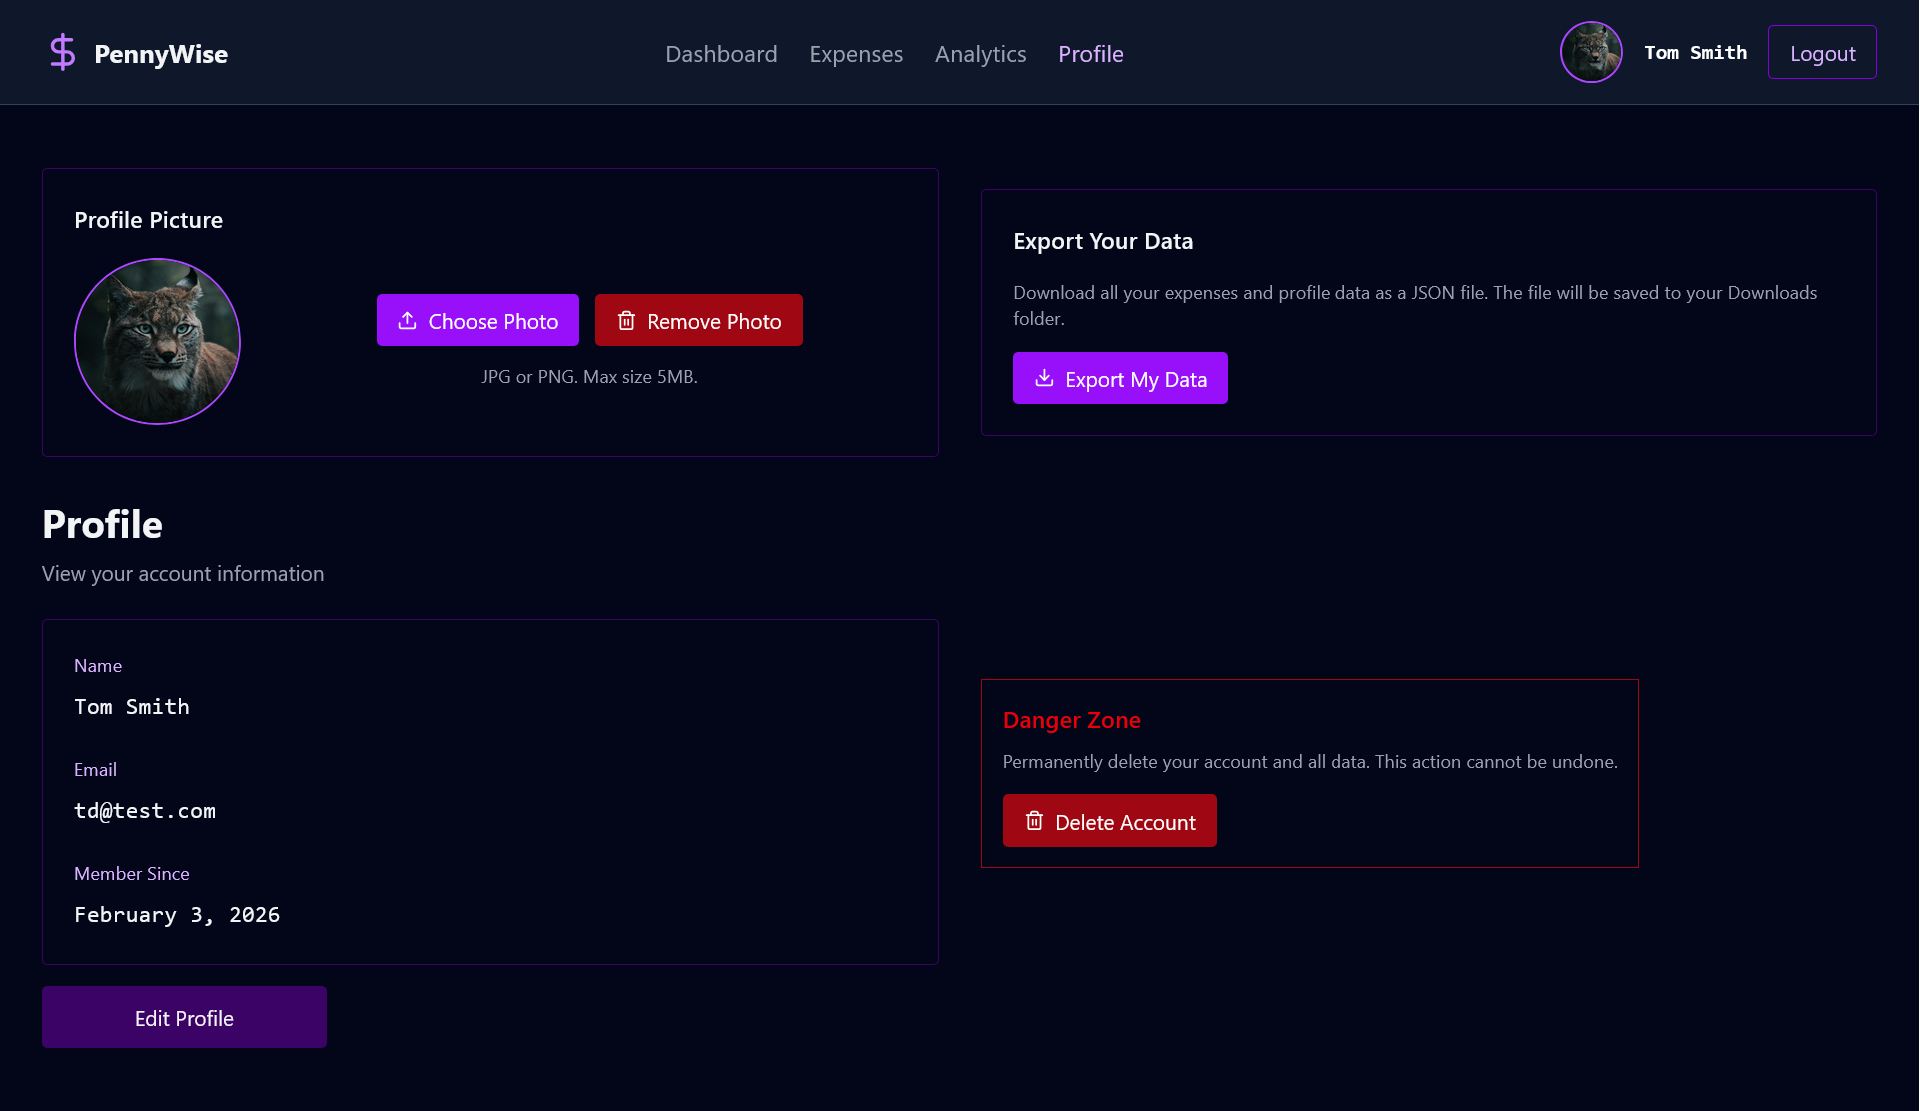
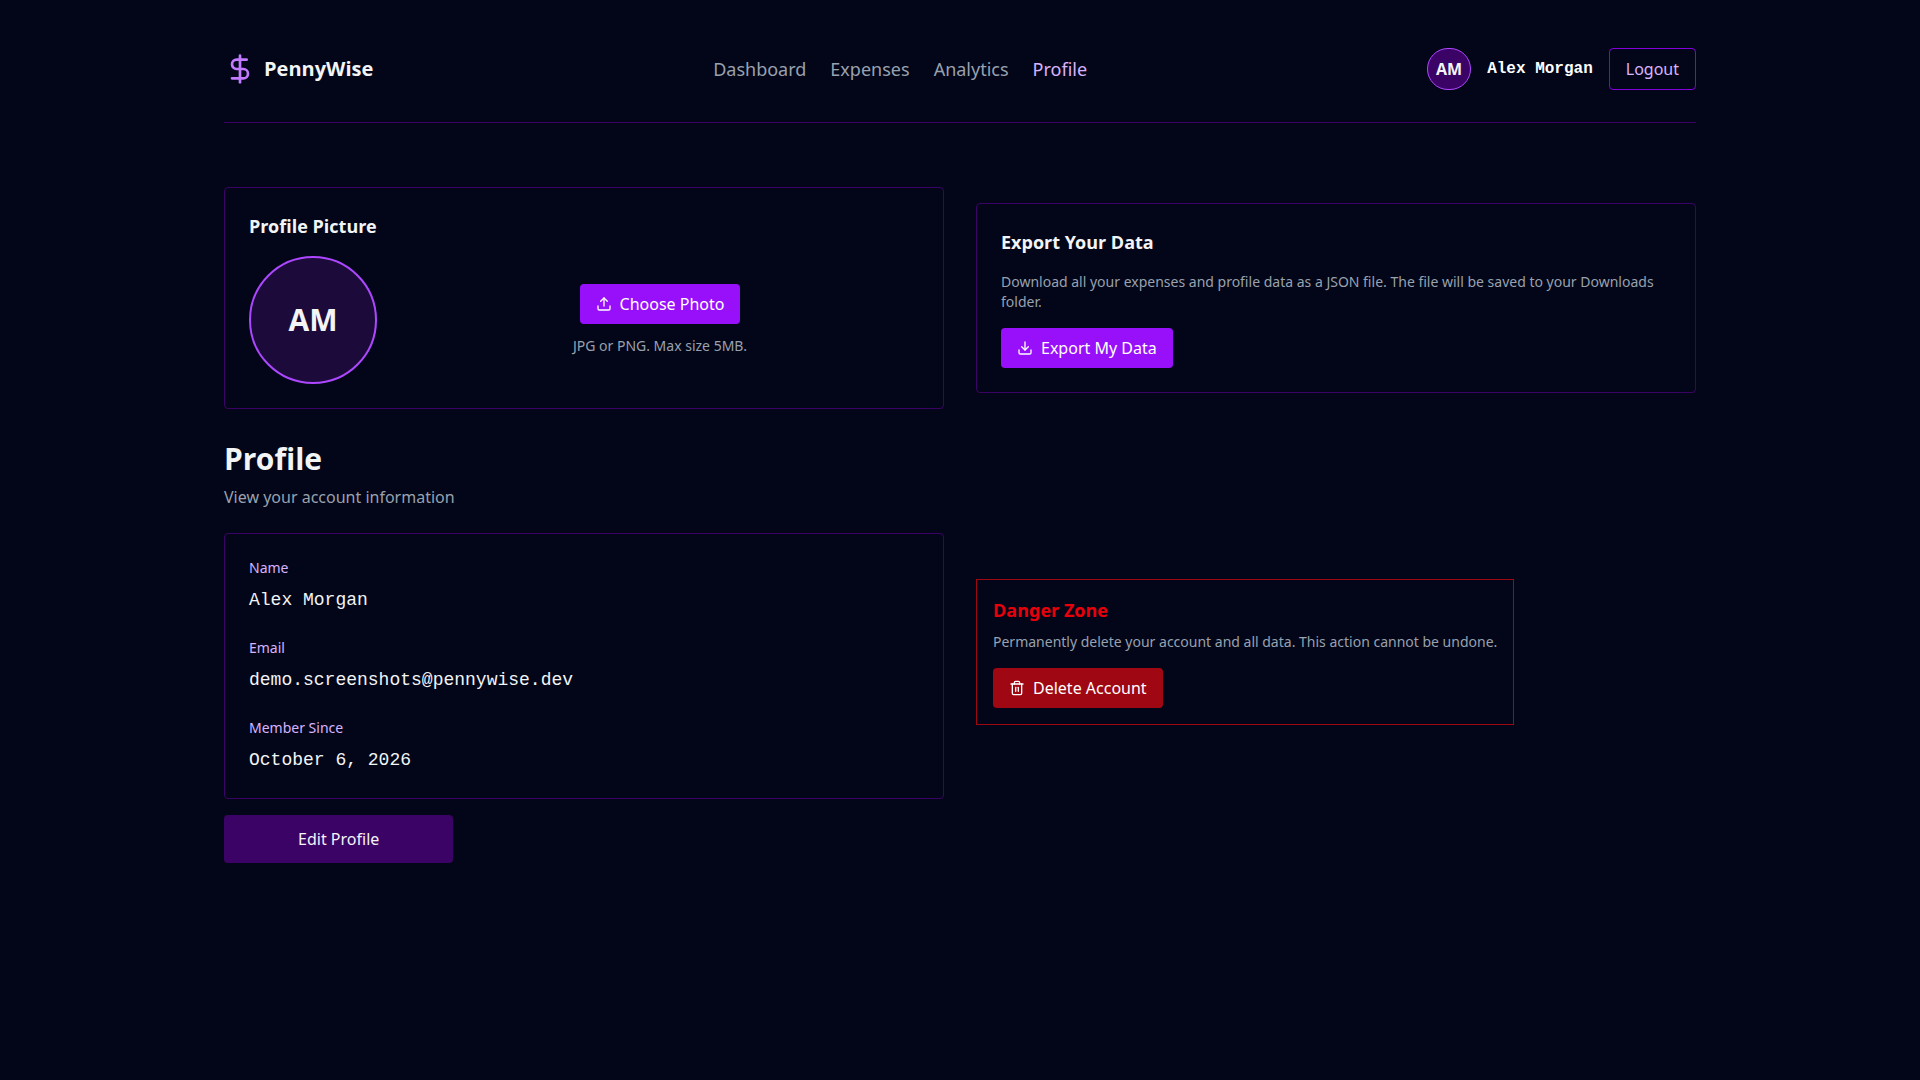
finalizing on pennywise

diff --git a/penny-wise/client/src/store/analyticsStore.ts b/penny-wise/client/src/store/analyticsStore.ts
@@ -1,5 +1,6 @@
 import { AnalyticsState, MonthlyTotal } from "@/types/analytics.types";
 import { create } from "zustand";
+import { getErrorMessage } from "@/services/api";
 import {
   getDashboardStats as getDashboardStatsService,
   getYearlyStats as getYearlyStatsService,
@@ -65,7 +66,7 @@ export const useAnalyticsStore = create<AnalyticsStore>((set, get) => ({
     } catch (error) {
       const err = error as AxiosError<{ error: string }>;
       set({
-        error: err.response?.data?.error,
+        error: getErrorMessage(err),
         isLoading: false,
       });
     }
@@ -87,7 +88,7 @@ export const useAnalyticsStore = create<AnalyticsStore>((set, get) => ({
     } catch (error) {
       const err = error as AxiosError<{ error: string }>;
       set({
-        error: err.response?.data?.error,
+        error: getErrorMessage(err),
         isLoading: false,
       });
     }
@@ -109,7 +110,7 @@ export const useAnalyticsStore = create<AnalyticsStore>((set, get) => ({
     } catch (error) {
       const err = error as AxiosError<{ error: string }>;
       set({
-        error: err.response?.data?.error,
+        error: getErrorMessage(err),
         isLoading: false,
       });
     }
@@ -133,7 +134,7 @@ export const useAnalyticsStore = create<AnalyticsStore>((set, get) => ({
     } catch (error) {
       const err = error as AxiosError<{ error: string }>;
       set({
-        error: err.response?.data?.error,
+        error: getErrorMessage(err),
         isLoading: false,
       });
     }
@@ -159,7 +160,7 @@ export const useAnalyticsStore = create<AnalyticsStore>((set, get) => ({
     } catch (error) {
       const err = error as AxiosError<{ error: string }>;
       set({
-        error: err.response?.data?.error,
+        error: getErrorMessage(err),
         isLoading: false,
       });
     }
@@ -185,7 +186,7 @@ export const useAnalyticsStore = create<AnalyticsStore>((set, get) => ({
     } catch (error) {
       const err = error as AxiosError<{ error: string }>;
       set({
-        error: err.response?.data?.error,
+        error: getErrorMessage(err),
         isLoading: false,
       });
     }
@@ -212,7 +213,7 @@ export const useAnalyticsStore = create<AnalyticsStore>((set, get) => ({
     } catch (error) {
       const err = error as AxiosError<{ error: string }>;
       set({
-        error: err.response?.data?.error,
+        error: getErrorMessage(err),
         isLoading: false,
       });
     }
@@ -239,7 +240,7 @@ export const useAnalyticsStore = create<AnalyticsStore>((set, get) => ({
     } catch (error) {
       const err = error as AxiosError<{ error: string }>;
       set({
-        error: err.response?.data?.error,
+        error: getErrorMessage(err),
         isLoading: false,
       });
     }
@@ -270,7 +271,7 @@ export const useAnalyticsStore = create<AnalyticsStore>((set, get) => ({
     } catch (error) {
       const err = error as AxiosError<{ error: string }>;
       set({
-        error: err.response?.data?.error,
+        error: getErrorMessage(err),
         isLoading: false,
       });
     }

diff --git a/penny-wise/client/src/store/authStore.ts b/penny-wise/client/src/store/authStore.ts
@@ -1,5 +1,5 @@
 import { create } from "zustand";
-import { TOKEN_KEY } from "@/services/api";
+import { getErrorMessage, TOKEN_KEY } from "@/services/api";
 import { AuthState } from "@/types/auth.types";
 import {
   signup as signupService,
@@ -62,7 +62,7 @@ export const useAuthStore = create<AuthStore>((set) => ({
     } catch (error) {
       const err = error as AxiosError<{ error: string }>;
       set({
-        error: err.response?.data?.error,
+        error: getErrorMessage(err),
         isLoading: false,
         isAuthenticated: false,
       });
@@ -92,7 +92,7 @@ export const useAuthStore = create<AuthStore>((set) => ({
     } catch (error) {
       const err = error as AxiosError<{ error: string }>;
       set({
-        error: err.response?.data?.error,
+        error: getErrorMessage(err),
         isLoading: false,
         isAuthenticated: false,
       });
@@ -115,7 +115,7 @@ export const useAuthStore = create<AuthStore>((set) => ({
     } catch (error) {
       const err = error as AxiosError<{ error: string }>;
       set({
-        error: err.response?.data?.error,
+        error: getErrorMessage(err),
         isLoading: false,
         isAuthenticated: false,
       });
@@ -142,7 +142,7 @@ export const useAuthStore = create<AuthStore>((set) => ({
     } catch (error) {
       const err = error as AxiosError<{ error: string }>;
       set({
-        error: err.response?.data?.error,
+        error: getErrorMessage(err),
         isLoading: false,
         isAuthenticated: false,
       });
@@ -167,7 +167,7 @@ export const useAuthStore = create<AuthStore>((set) => ({
     } catch (error) {
       const err = error as AxiosError<{ error: string }>;
       set({
-        error: err.response?.data?.error,
+        error: getErrorMessage(err),
         isLoading: false,
         isAuthenticated: false,
       });
@@ -188,7 +188,7 @@ export const useAuthStore = create<AuthStore>((set) => ({
     } catch (error) {
       const err = error as AxiosError<{ error: string }>;
       set({
-        error: err.response?.data?.error,
+        error: getErrorMessage(err),
         isLoading: false,
         isAuthenticated: false,
       });
@@ -211,7 +211,7 @@ export const useAuthStore = create<AuthStore>((set) => ({
     } catch (error) {
       const err = error as AxiosError<{ error: string }>;
       set({
-        error: err.response?.data?.error,
+        error: getErrorMessage(err),
         isLoading: false,
         isAuthenticated: false,
       });
@@ -236,7 +236,7 @@ export const useAuthStore = create<AuthStore>((set) => ({
     } catch (error) {
       const err = error as AxiosError<{ error: string }>;
       set({
-        error: err.response?.data?.error,
+        error: getErrorMessage(err),
         isLoading: false,
         isAuthenticated: false,
       });

diff --git a/penny-wise/client/src/store/expenseStore.ts b/penny-wise/client/src/store/expenseStore.ts
@@ -1,5 +1,6 @@
 import { ExpenseState } from "@/types/expense.types";
 import { create } from "zustand";
+import { getErrorMessage } from "@/services/api";
 import {
   createExpense as createExpenseService,
   getAllExpenses as getAllExpensesService,
@@ -165,7 +166,7 @@ export const useExpenseStore = create<ExpenseStore>((set, get) => ({
     } catch (error) {
       const err = error as AxiosError<{ error: string }>;
       set({
-        error: err.response?.data?.error,
+        error: getErrorMessage(err),
         isLoading: false,
       });
     }
@@ -203,7 +204,7 @@ export const useExpenseStore = create<ExpenseStore>((set, get) => ({
     } catch (error) {
       const err = error as AxiosError<{ error: string }>;
       set({
-        error: err.response?.data?.error,
+        error: getErrorMessage(err),
         isLoading: false,
       });
     }
@@ -233,7 +234,7 @@ export const useExpenseStore = create<ExpenseStore>((set, get) => ({
     } catch (error) {
       const err = error as AxiosError<{ error: string }>;
       set({
-        error: err.response?.data?.error,
+        error: getErrorMessage(err),
         isLoading: false,
       });
     }
@@ -254,7 +255,7 @@ export const useExpenseStore = create<ExpenseStore>((set, get) => ({
     } catch (error) {
       const err = error as AxiosError<{ error: string }>;
       set({
-        error: err.response?.data?.error,
+        error: getErrorMessage(err),
         isLoading: false,
       });
     }

diff --git a/penny-wise/client/src/services/api.ts b/penny-wise/client/src/services/api.ts
@@ -1,9 +1,9 @@
-import axios from "axios";
+import axios, { AxiosError } from "axios";
 
 const TOKEN_KEY = "pennywise_token";
 
 const api = axios.create({
-  baseURL: import.meta.env.VITE_API_BASE_URL || "http://localhost:8000/api",
+  baseURL: import.meta.env.VITE_API_BASE_URL || "/api",
   headers: {
     "Content-Type": "Application/json",
   },
@@ -45,6 +45,21 @@ api.interceptors.response.use(
     return Promise.reject(error);
   },
 );
+
+// Server-provided message, or a fallback when no response arrived (server down, CORS, offline)
+export const getErrorMessage = (error: unknown): string => {
+  const err = error as AxiosError<{ error?: string }>;
+
+  if (err.response?.data?.error) {
+    return err.response.data.error;
+  }
+
+  if (!err.response) {
+    return "Cannot reach the server. Please check your connection and try again.";
+  }
+
+  return "Something went wrong. Please try again.";
+};
 
 export default api;
 export { TOKEN_KEY };

diff --git a/penny-wise/server/src/index.ts b/penny-wise/server/src/index.ts
@@ -15,8 +15,16 @@ const PORT = process.env.PORT || 8000;
 
 connectDB();
 
+// CLIENT_URL may be a comma-separated list of allowed origins
+const allowedOrigins = (
+  process.env.CLIENT_URL || "http://localhost:3000,http://127.0.0.1:3000"
+)
+  .split(",")
+  .map((origin) => origin.trim())
+  .filter(Boolean);
+
 const corsOptions = {
-  origin: process.env.CLIENT_URL || "http://localhost:3000",
+  origin: allowedOrigins,
   credentials: true,
 };
 

diff --git a/penny-wise/README.md b/penny-wise/README.md
@@ -48,6 +48,8 @@ A secure, full-stack personal finance application built with MongoDB, Express, R
 
 ## Screenshots
 
+Captured at 1920px wide using a demo account seeded with about 14 months of sample expenses.
+
 | Page      | Preview                                                         |
 | --------- | --------------------------------------------------------------- |
 | Sign Up   | ![Signup](./PennyWise-Screenshots/1-Signup-PennyWise.png)       |
@@ -239,7 +241,7 @@ cp .env.example .env
 ```env
 PORT=8000
 NODE_ENV=development
-CLIENT_URL=http://localhost:3000
+CLIENT_URL=http://localhost:3000,http://127.0.0.1:3000
 MONGODBURI=mongodb://localhost:27017/pennywise
 JWT_SECRET=your-secure-jwt-secret-key
 ```
@@ -268,7 +270,7 @@ cp .env.example .env
 ```
 
 ```env
-VITE_API_BASE_URL=http://localhost:8000/api
+VITE_API_BASE_URL=/api
 ```
 
 Start the frontend:

diff --git a/penny-wise/server/README.md b/penny-wise/server/README.md
@@ -52,7 +52,7 @@ cp .env.example .env
 ```env
 PORT=8000
 NODE_ENV=development
-CLIENT_URL=http://localhost:3000
+CLIENT_URL=http://localhost:3000,http://127.0.0.1:3000
 MONGODBURI=mongodb://localhost:27017/pennywise
 JWT_SECRET=your-secure-jwt-secret-key
 ```

diff --git a/penny-wise/client/README.md b/penny-wise/client/README.md
@@ -47,7 +47,7 @@ cp .env.example .env
 ```
 
 ```env
-VITE_API_BASE_URL=http://localhost:8000/api
+VITE_API_BASE_URL=/api
 ```
 
 ### 4. Start the Development Server
